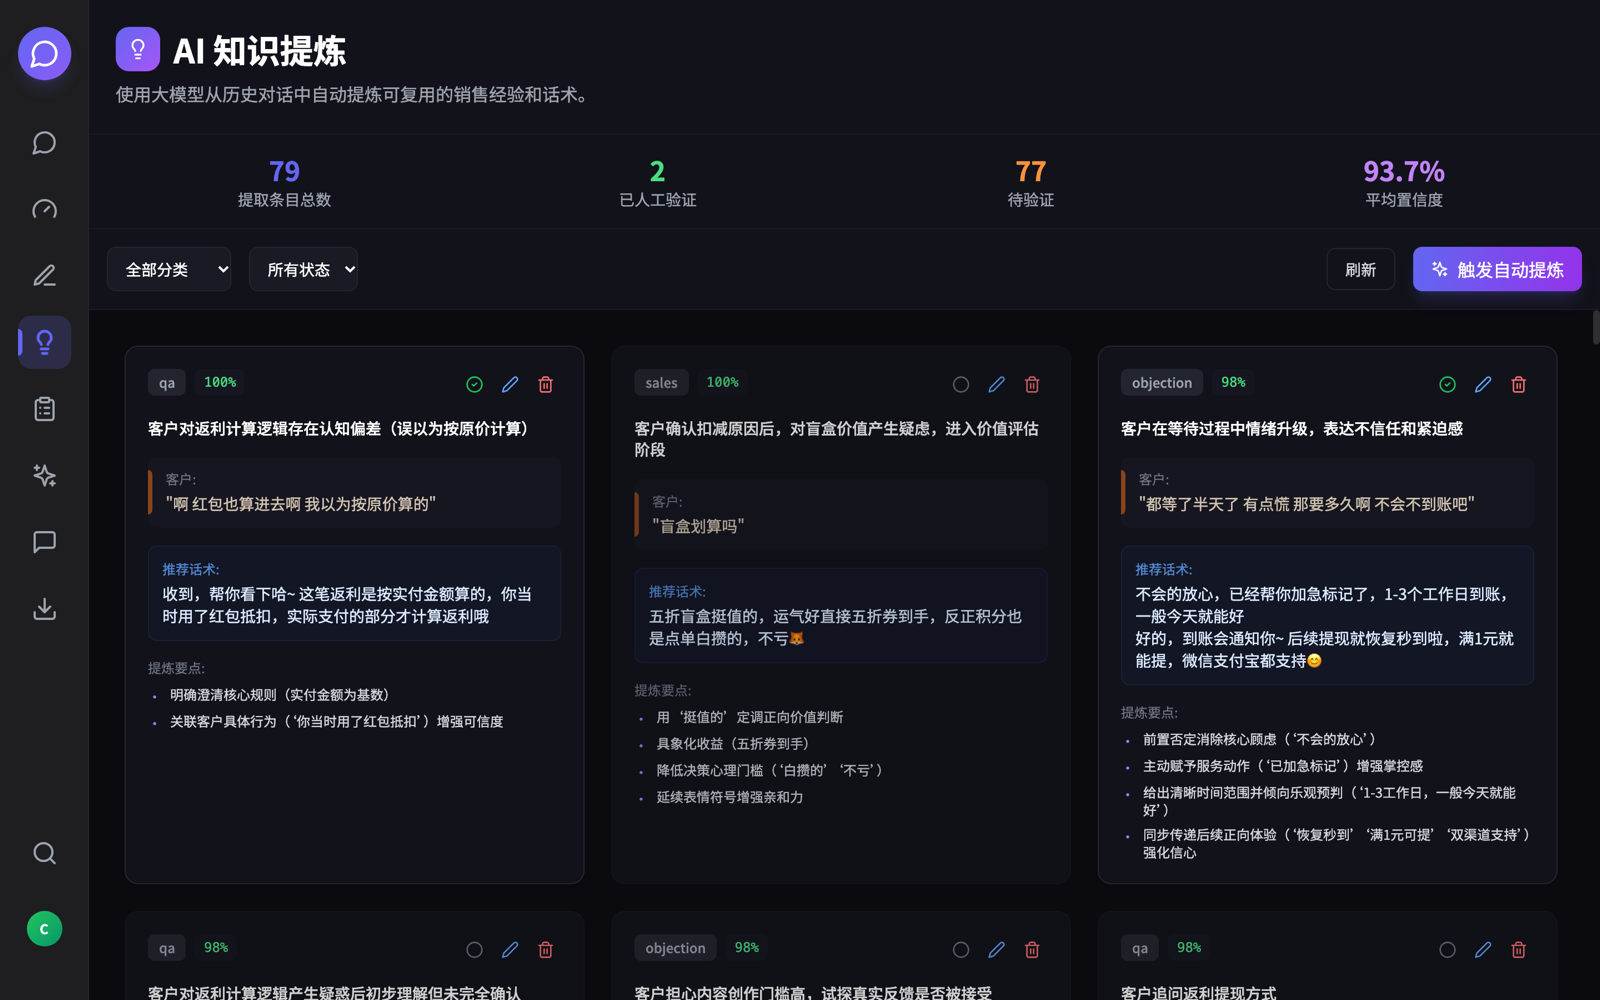
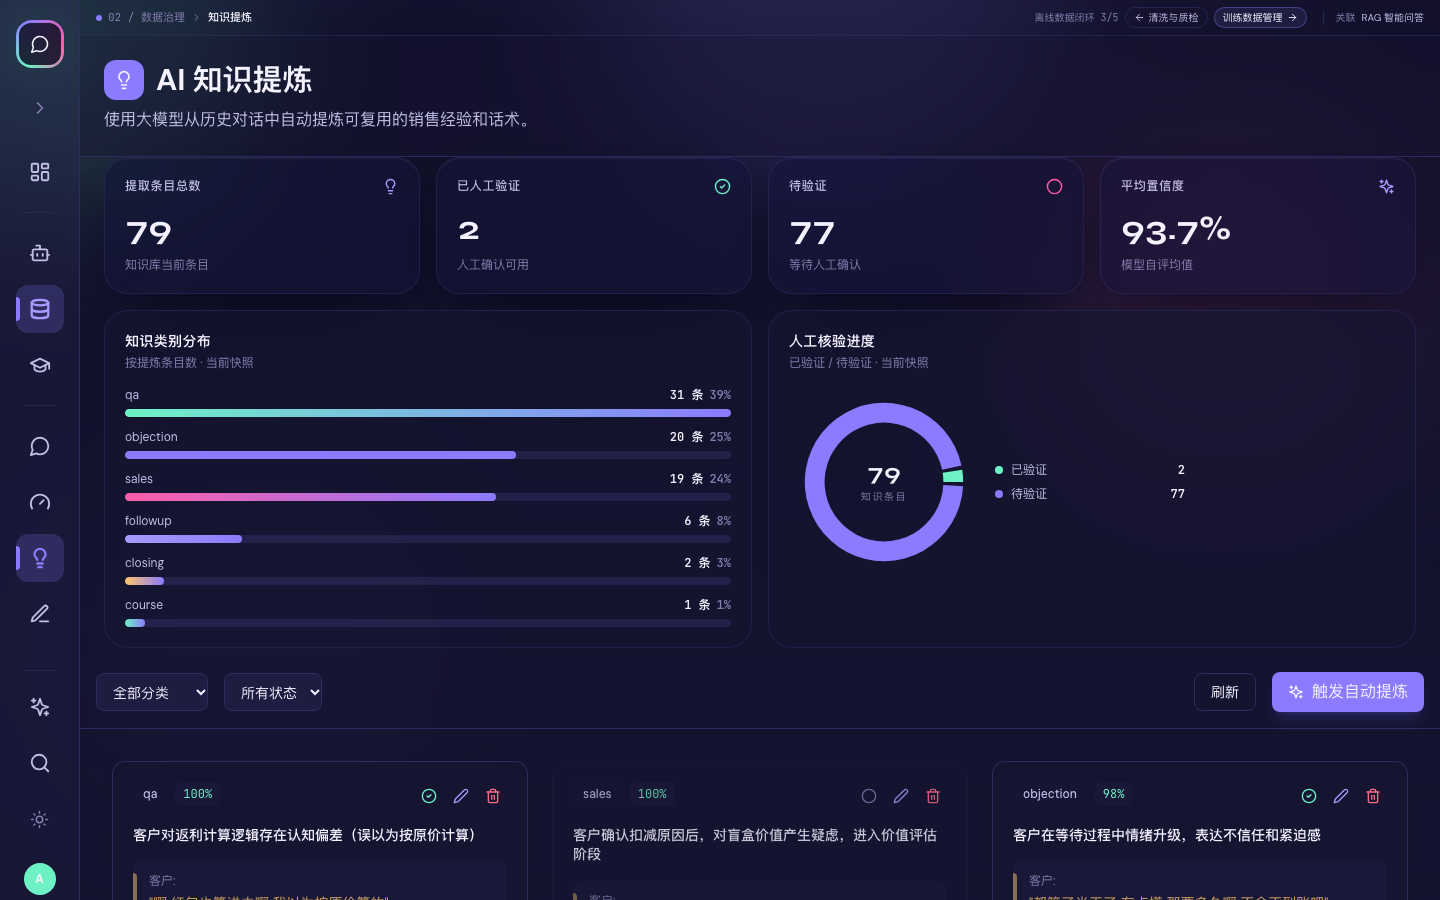
docs: 刷新 README 界面预览截图（重设计后首版）
- 重截 15 张界面预览图，覆盖「流体极光」主题与三工作区 IA（同名覆盖，README 链接路径不变）

- 新增全局数据看板截图 overview.png，预览段增加主题/IA 说明并标注各模块所属工作区

- search 截图注入「返利」查询以展示结果；chat-record 用真实会话展示聊天记录

diff --git a/README.md b/README.md
@@ -74,9 +74,13 @@
 
 ## 界面预览
 
-> 截图为本地运行画面，对话与数据均为演示数据。
+> 截图为本地运行画面，采用「流体极光」视觉主题与三工作区信息架构（在线服务 / 数据治理 / 模型优化）；对话与数据均为演示数据。
 
-**智能客服工作台** —— 意图识别、工具调用、退款挂起待审批
+**全局数据看板** —— 跨工作区汇总 KPI、数据闭环健康度与图表，一眼掌握全局（顶部「全局总览」入口）
+
+![全局数据看板](docs/screenshots/overview.png)
+
+**智能客服工作台** —— 意图识别、工具调用、退款挂起待审批（位于「01 在线服务」工作区）
 
 ![智能客服对话](docs/screenshots/agent-chat.png)
 
@@ -92,7 +96,7 @@
 ![Skill & MCP](docs/screenshots/agent-skill.png)
 ![Agent 配置](docs/screenshots/agent-config.png)
 
-**数据质检中心**：清洗审核 → 质检评分 → 校准对比
+**数据质检中心**：清洗审核 → 质检评分 → 校准对比（「02 数据治理」工作区）
 
 ![会话清洗与审核](docs/screenshots/qc-clean.png)
 ![质检评分](docs/screenshots/qc-score.png)
